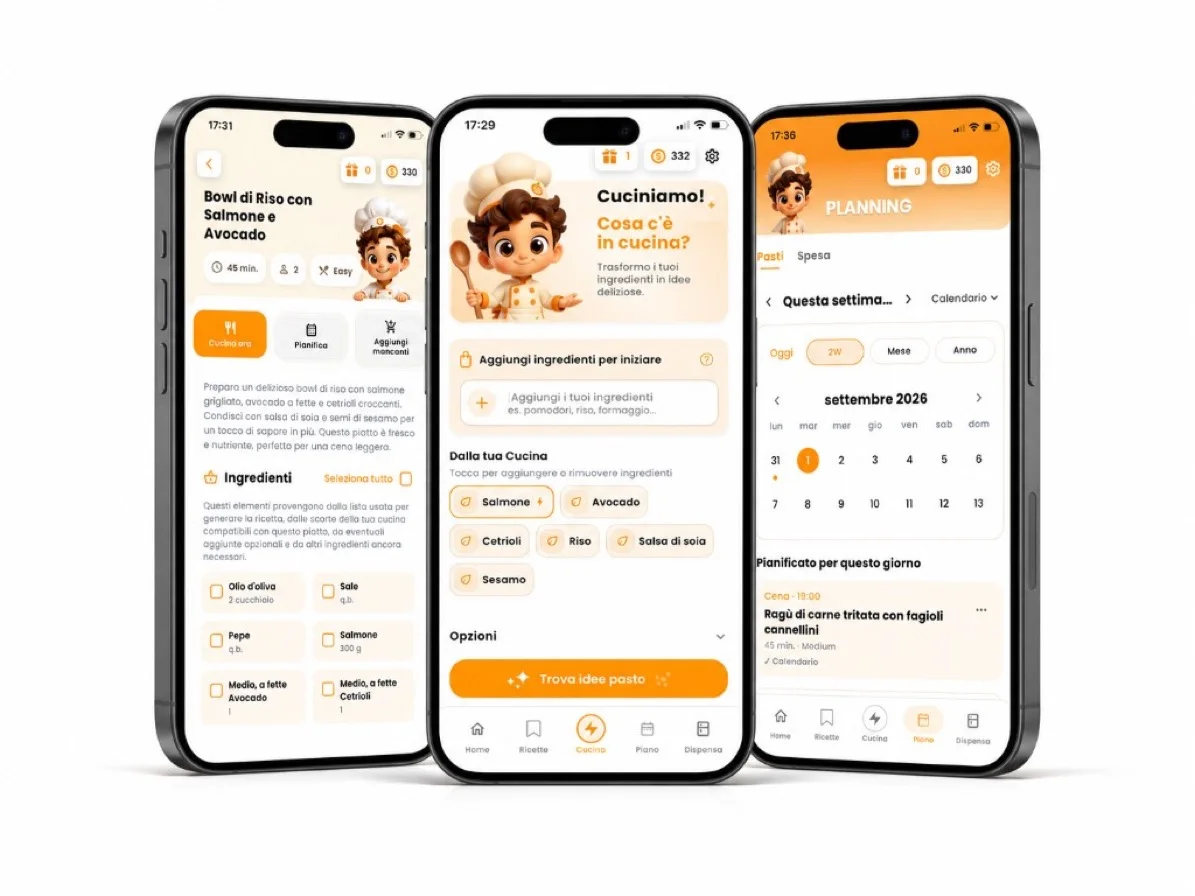
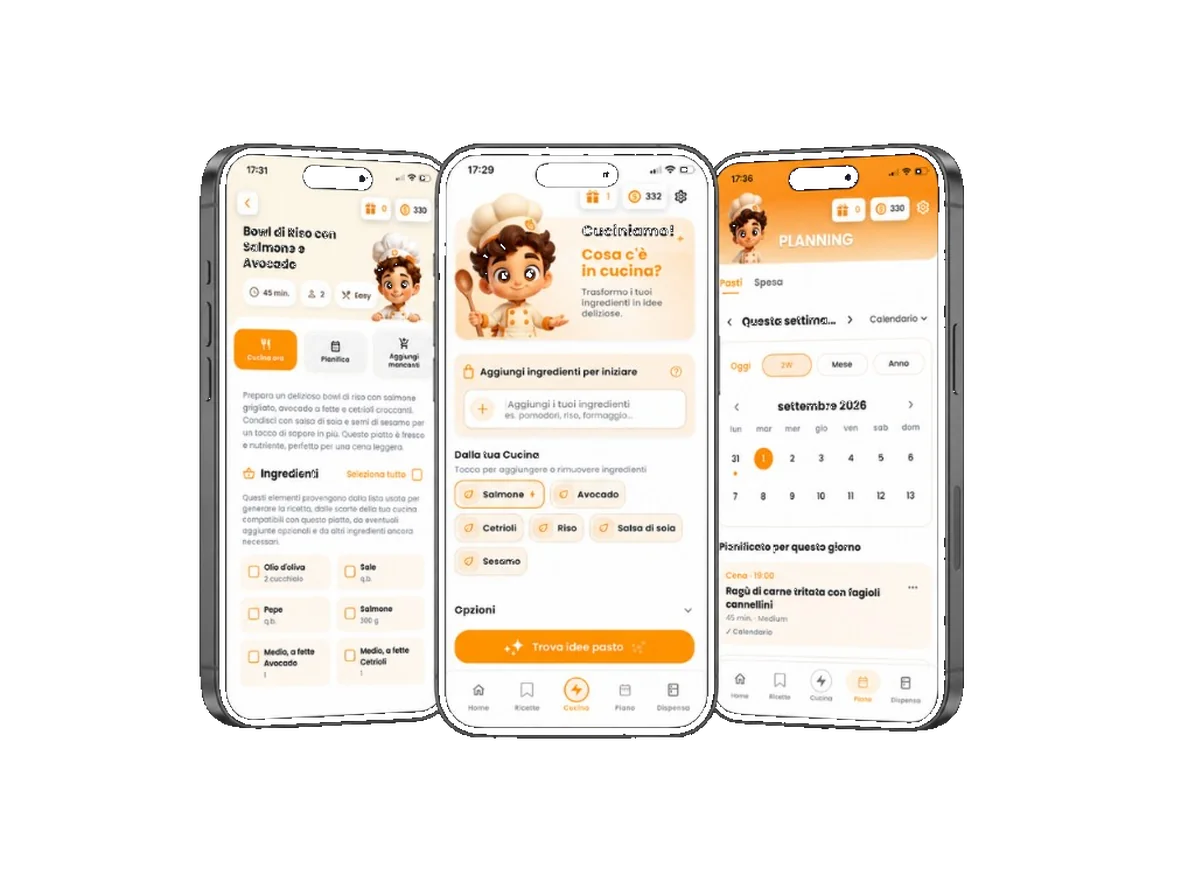
Replace Italian hero phones image with transparent WebP.
Use the transparent Italian phone composition on the paid-traffic landing while keeping the same 1195×896 canvas and hero layout.

Changed region(s): [[0.1238, 0.0938, 0.8979, 0.9062]]

diff --git a/it/ricette-con-ingredienti/index.html b/it/ricette-con-ingredienti/index.html
@@ -139,7 +139,7 @@
         <div class="hero-visual it-ads-hero-visual" aria-hidden="true">
           <div class="hero-visual-scene">
             <div class="hero-phones-wrap">
-              <img class="hero-phones-main" src="../../assets/hero-phones-it.webp?v=1" alt="" width="900" height="900" fetchpriority="high">
+              <img class="hero-phones-main" src="../../assets/hero-phones-it.webp?v=2" alt="" width="900" height="900" fetchpriority="high">
             </div>
             <img class="hero-phones-shadow" src="../../assets/hero-phones-shadow.webp?v=45" alt="">
             <img class="hero-character" src="../../assets/hero-character.webp?v=45" alt="">
